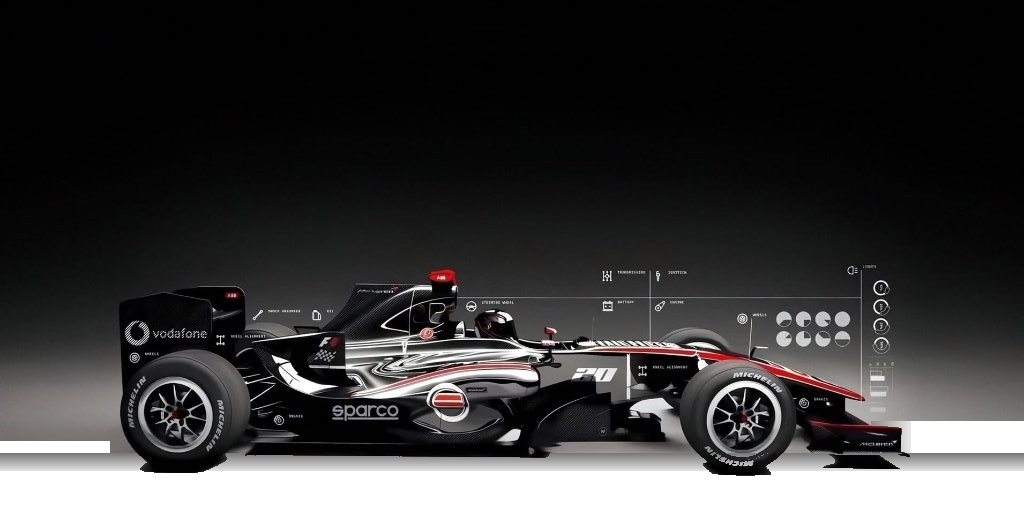
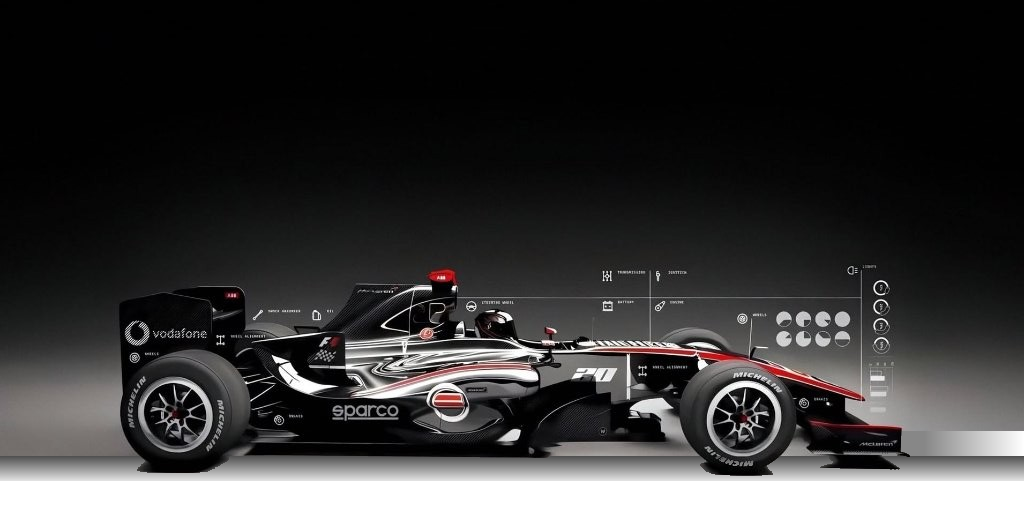
feat: apply radial gradient mask to car image for seamless borderless blend

Changed region(s): [[0.0, 0.8093, 1.0, 0.9339]]

diff --git a/src/components/Hero.jsx b/src/components/Hero.jsx
@@ -276,7 +276,7 @@ export default function Hero({ onOpenResume }) {
               <img 
                 src="/f1-car-transparent.png" 
                 alt="F1 High-Performance Engineering Telemetry Chassis AS-2026"
-                className="w-full h-auto max-h-[380px] object-contain filter drop-shadow-[0_20px_40px_rgba(0,0,0,0.95)] pointer-events-none select-none transition-transform duration-500 hover:scale-[1.01]"
+                className="w-full h-auto max-h-[380px] object-contain filter drop-shadow-[0_20px_40px_rgba(0,0,0,0.95)] pointer-events-none select-none transition-transform duration-500 hover:scale-[1.01] [mask-image:radial-gradient(ellipse_94%_84%_at_50%_45%,black_75%,transparent_100%)]"
               />
 
               {/* 5 INTERACTIVE PULSING HOTSPOT TARGETS ON CAR */}

diff --git a/src/components/CarLaunchIntro.jsx b/src/components/CarLaunchIntro.jsx
@@ -169,7 +169,7 @@ export default function CarLaunchIntro({ onComplete }) {
           <img 
             src="/f1-car-transparent.png" 
             alt="Formula 1 High-Performance Chassis" 
-            className="w-full max-w-3xl sm:max-w-4xl h-auto object-contain pointer-events-none select-none filter drop-shadow-[0_25px_50px_rgba(0,0,0,0.95)]"
+            className="w-full max-w-3xl sm:max-w-4xl h-auto object-contain pointer-events-none select-none filter drop-shadow-[0_25px_50px_rgba(0,0,0,0.95)] [mask-image:radial-gradient(ellipse_94%_84%_at_50%_45%,black_75%,transparent_100%)]"
           />
         </div>
 
